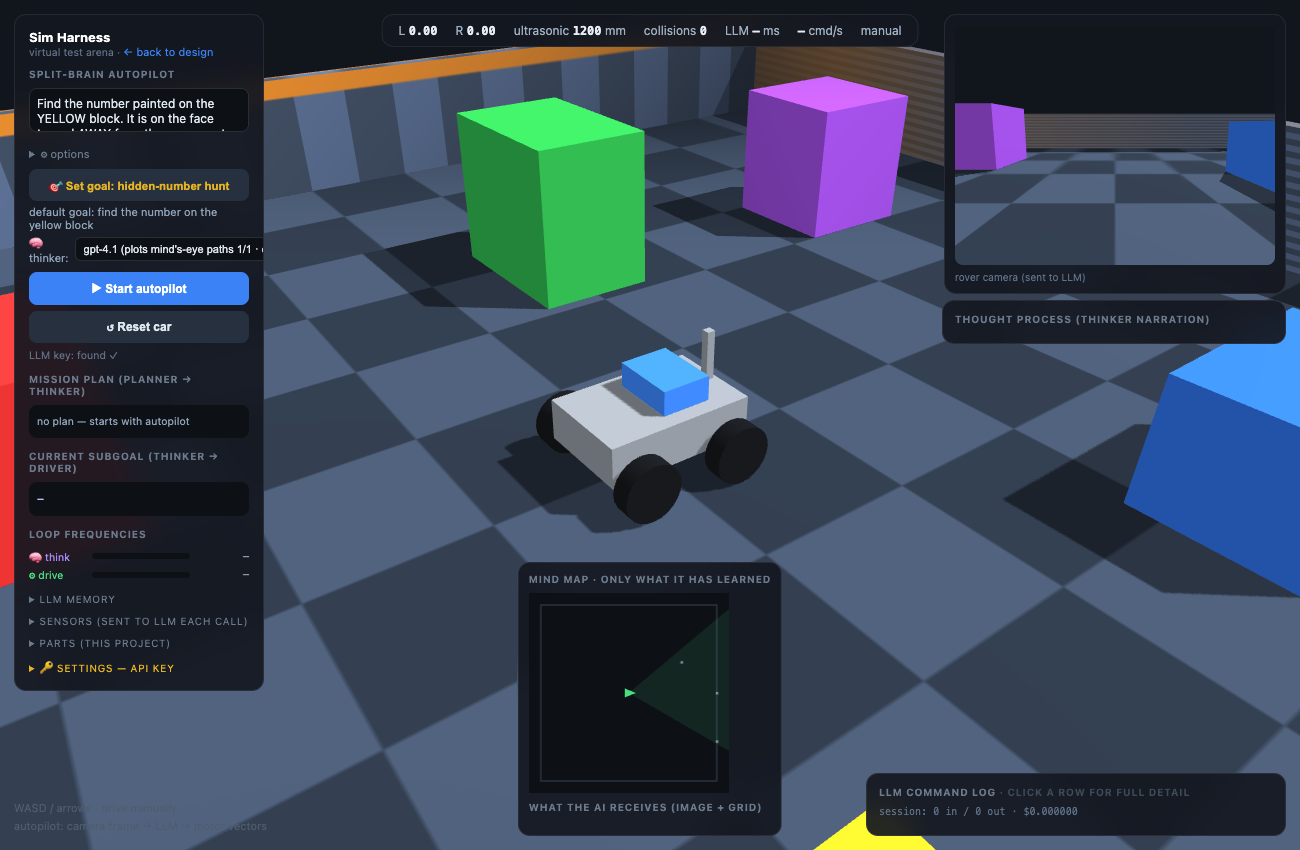
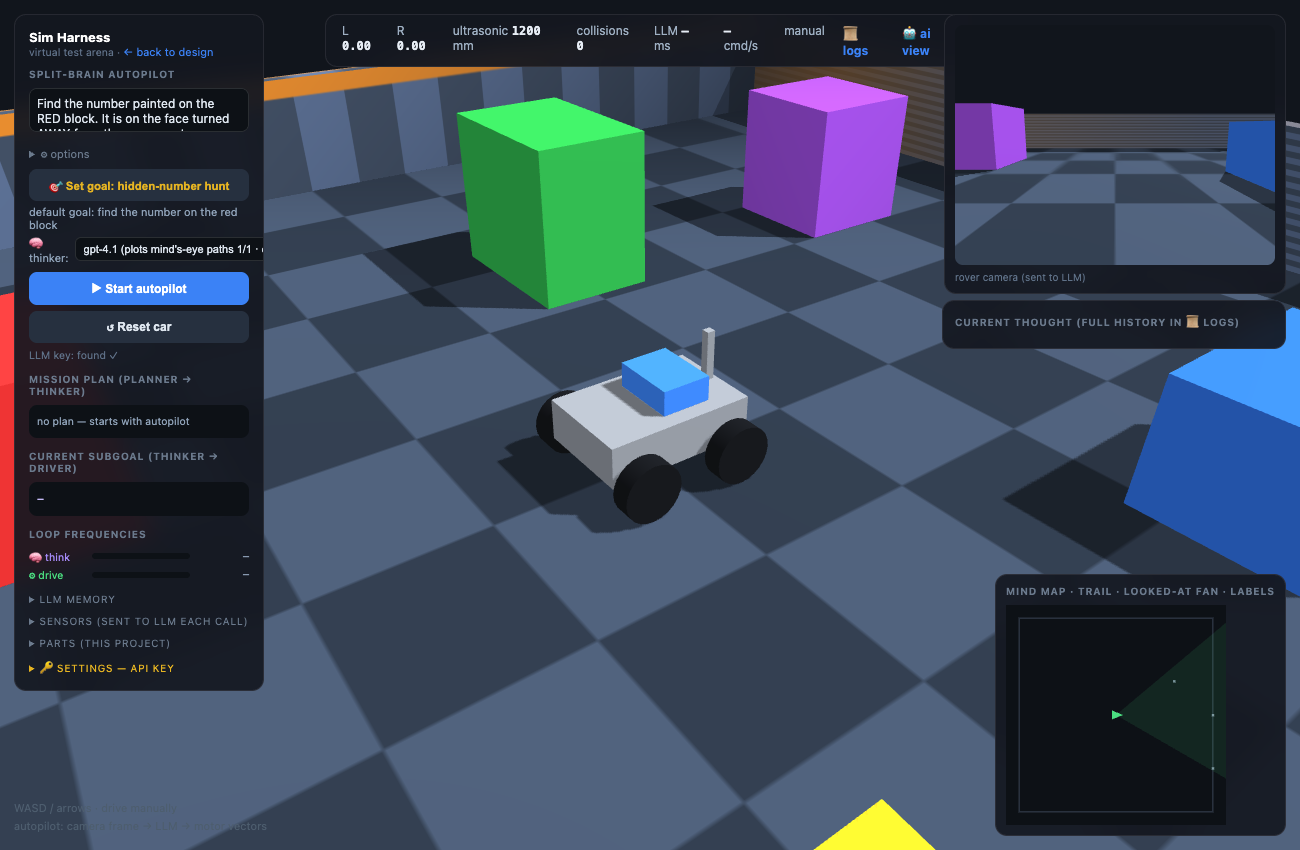
UI: single combined mind map (trail+coverage+labels) bottom-right; latest-thought-only panel; full logs and machine-readable map behind top tabs

diff --git a/ui/sim.html b/ui/sim.html
@@ -37,8 +37,8 @@
   #pov canvas { border-radius:8px; display:block; }
   #pov .cap { font-size:10px; color:#5f7188; margin-top:6px; display:flex; justify-content:space-between; }
 
-  #log { position:absolute; bottom:14px; right:14px; z-index:10; width:420px;
-    max-height:320px; padding:12px; font-size:11.5px; overflow-y:auto; }
+  #log { display:none; position:absolute; bottom:14px; left:50%; transform:translateX(-50%);
+    z-index:12; width:520px; max-height:45%; padding:12px; font-size:11.5px; overflow-y:auto; }
   #logtot { font-size:10px; color:#5f7188; font-family:ui-monospace,monospace; margin-bottom:6px; }
   .lrow { padding:5px 0; border-bottom:1px solid rgba(255,255,255,.05); line-height:1.5; cursor:pointer; }
   .lrow:hover { background:rgba(255,255,255,.03); }
@@ -150,6 +150,8 @@
     <span>LLM <b id="hlat">–</b> ms</span>
     <span><b id="hhz">–</b> cmd/s</span>
     <span id="hmode">manual</span>
+    <span id="tglogs" style="cursor:pointer; color:#3b82f6; font-weight:700">📜 logs</span>
+    <span id="tgai" style="cursor:pointer; color:#3b82f6; font-weight:700">🤖 ai view</span>
   </div>
 
   <div id="pov" class="panel">
@@ -157,8 +159,8 @@
     <div class="cap"><span>rover camera (sent to LLM)</span><span id="povstat"></span></div>
   </div>
 
-  <div id="storybox" class="panel" style="position:absolute; top:300px; right:14px; width:344px; max-height:290px; overflow-y:auto; padding:12px; z-index:10">
-    <h2 style="font-size:10px; text-transform:uppercase; letter-spacing:.08em; color:#6b7a8d; margin-bottom:6px">Thought process (thinker narration)</h2>
+  <div id="storybox" class="panel" style="position:absolute; top:300px; right:14px; width:344px; max-height:220px; overflow-y:auto; padding:12px; z-index:10">
+    <h2 style="font-size:10px; text-transform:uppercase; letter-spacing:.08em; color:#6b7a8d; margin-bottom:6px">Current thought (full history in 📜 logs)</h2>
     <div id="story" style="font-size:11px; line-height:1.55"></div>
   </div>
 
@@ -168,11 +170,14 @@
 
   <div id="hint">WASD / arrows · drive manually<br>autopilot: camera frame → LLM → motor vectors</div>
 
-  <div id="mind" class="panel" style="position:absolute; bottom:14px; left:50%; transform:translateX(-50%); padding:10px; z-index:10">
-    <h2>mind map · only what it has learned</h2>
-    <canvas id="mindmap" width="200" height="200" style="display:block"></canvas>
-    <h2 style="margin-top:8px">what the AI receives (image + grid)</h2>
-    <img id="aimap" width="200" style="display:block; border-radius:6px">
+  <div id="mind" class="panel" style="position:absolute; bottom:14px; right:14px; padding:10px; z-index:11">
+    <h2>mind map · trail · looked-at fan · labels</h2>
+    <canvas id="mindmap" width="220" height="220" style="display:block"></canvas>
+  </div>
+
+  <div id="aiview" class="panel" style="display:none; position:absolute; bottom:14px; left:14px; padding:10px; z-index:12; max-height:70%; overflow-y:auto">
+    <h2>what the AI receives (image + grid)</h2>
+    <img id="aimap" width="230" style="display:block; border-radius:6px">
     <pre id="aigrid" style="font-size:7.5px; line-height:1.15; color:#8fa2b8; font-family:ui-monospace,monospace; margin-top:4px"></pre>
   </div>
 </div>
@@ -1148,7 +1153,7 @@ async function thinkOnce(){
          <span style="color:#4ade80">➜ ${esc(cmd.say||cmd.subgoal||'—')}</span>
          ${cmd.scene ? `<div style="color:#4d5d6e; font-size:9.5px; margin-top:2px">🎞 ${esc(cmd.scene)}</div>` : ''}`;
       st.prepend(entry);
-      while(st.children.length > 12) st.lastChild.remove();
+      while(st.children.length > 1) st.lastChild.remove();
       if(currentSubgoal){
         subgoalHistory.push({subgoal: currentSubgoal, t: sgStartT,
           outcome: driverStatus==='running' ? 'still running when replaced' : driverStatus});
@@ -1452,7 +1457,7 @@ function mapShot(){
 // Deliberately does NOT draw the real obstacles; gaps here = things it hasn't learned.
 const mmc = document.getElementById('mindmap').getContext('2d');
 function drawMind(){
-  const S=200, sc=S*0.88/ARENA, cx=S/2, cy=S/2;
+  const S=220, sc=S*0.88/ARENA, cx=S/2, cy=S/2;
   const X=x=>cx+x*sc, Y=y=>cy-y*sc;
   mmc.fillStyle='#0d1116'; mmc.fillRect(0,0,S,S);
   mmc.strokeStyle='#2a3340'; mmc.strokeRect(X(-ARENA/2), Y(ARENA/2), ARENA*sc, ARENA*sc);
@@ -1534,6 +1539,13 @@ document.getElementById('savekey').onclick = async ()=>{
   refreshKeyStat();
 };
 refreshKeyStat();
+
+// top tabs: full logs + machine-readable map, hidden unless opened
+const tg = (btn, panel) => document.getElementById(btn).onclick = () => {
+  const el = document.getElementById(panel);
+  el.style.display = el.style.display === 'block' ? 'none' : 'block';
+};
+tg('tglogs', 'log'); tg('tgai', 'aiview');
 
 // the directed hunt IS the default mission — set on load, no 🎯 click needed
 document.getElementById('goal').value = huntGoal(secretTruth.color);
